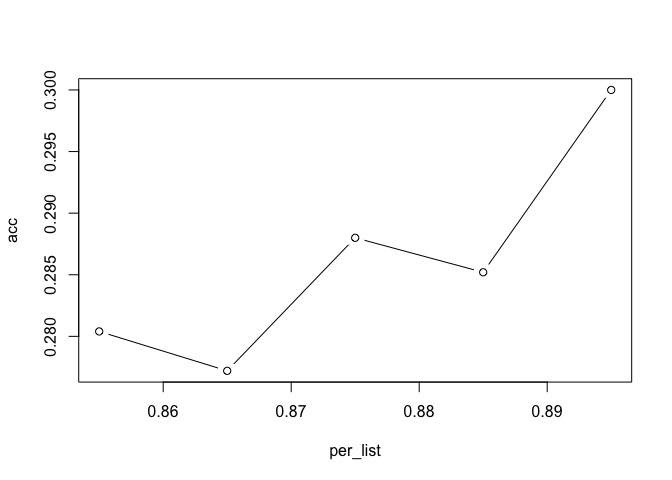
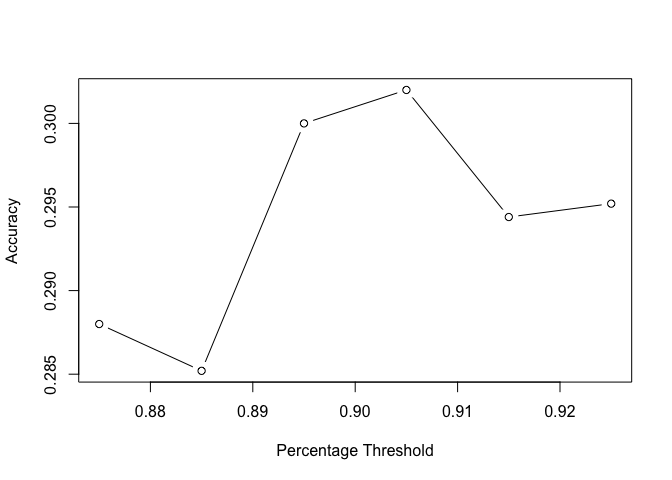
first

diff --git a/AuthorAttrition_Bruce.md b/AuthorAttrition_Bruce.md
@@ -26,13 +26,13 @@ the highest accuracy in naive bayes. According to the plot, 0.895 is our
 best choice as the percentage, which gives the accuracy of 37.5%.
 
     acc = NULL
-    per_list = seq(0.855, 0.90, 0.01)
+    per_list = seq(0.875, 0.925, 0.01)
     for (i in per_list){
       DTM_test = removeSparseTerms(DTM, i)
       X = as.matrix(DTM_test)
       acc = append(acc, test(X))
     }
-    plot(per_list, acc, type='b')
+    plot(per_list, acc, type='b', ylab='Accuracy', xlab='Percentage Threshold')
 
 ![](AuthorAttrition_Bruce_files/figure-markdown_strict/test_term_percentage-1.png)
 
@@ -67,6 +67,7 @@ we tested multiple options mannually.
     plot(cumsum((pca$sdev)^2)/sum(pca$sdev^2), pch=19, cex=0.1, ylab='Cumulative Variance', xlab='Number of Components' )
 
 ![](AuthorAttrition_Bruce_files/figure-markdown_strict/PCA-1.png)
+
 According to below curve, when we select the 105 most important
 components in PCA, we have further increased our accuracy to 50.12%
 
@@ -76,4 +77,8 @@ components in PCA, we have further increased our accuracy to 50.12%
       X_test = pca$x[, 1:i]
       acc = append(acc, test(X_test))
     }
+    plot(pca_list, acc, pch=19, cex=0.1, ylab='Accuracy', xlab='Number of Components')
+
+![](AuthorAttrition_Bruce_files/figure-markdown_strict/pca_-1.png)
+
     X = pca$x[, 1:105]
